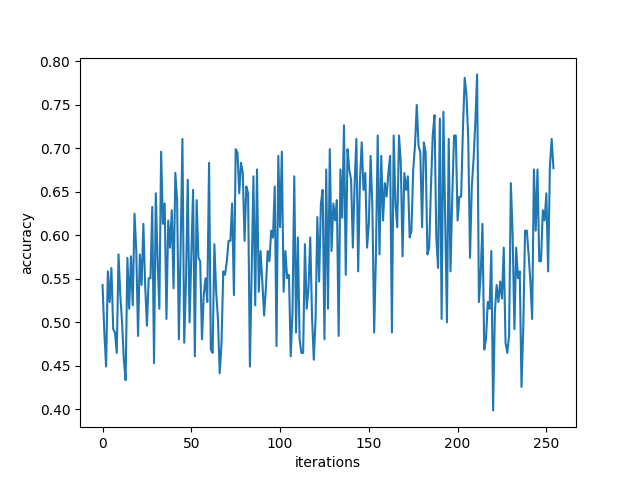
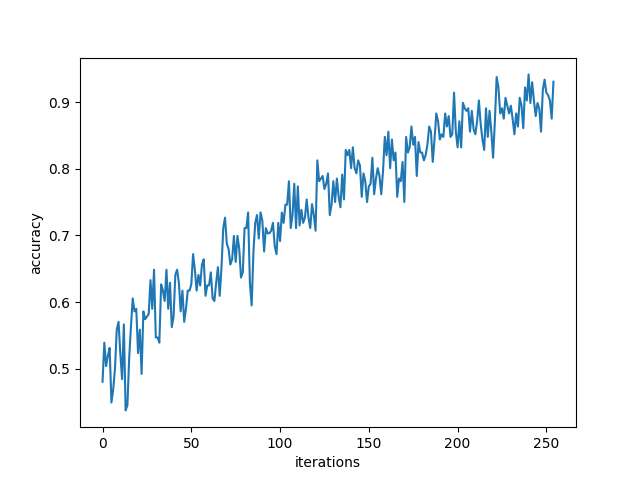
LR allows over fitting of simple model

diff --git a/Nick_tests/replicate/gender_model.py b/Nick_tests/replicate/gender_model.py
@@ -199,7 +199,7 @@ print("defined model")
 model.type(dtype)
 model.train()
 loss_fn = nn.CrossEntropyLoss().type(dtype)
-optimizer = optim.Adam(model.parameters(), lr=1e-4)
+optimizer = optim.Adam(model.parameters(), lr=1e-6)
 print("start training")
 loss_history,acc_history=train(train_loader, model, loss_fn, optimizer, dtype,num_epochs=15, print_every=17)
 
